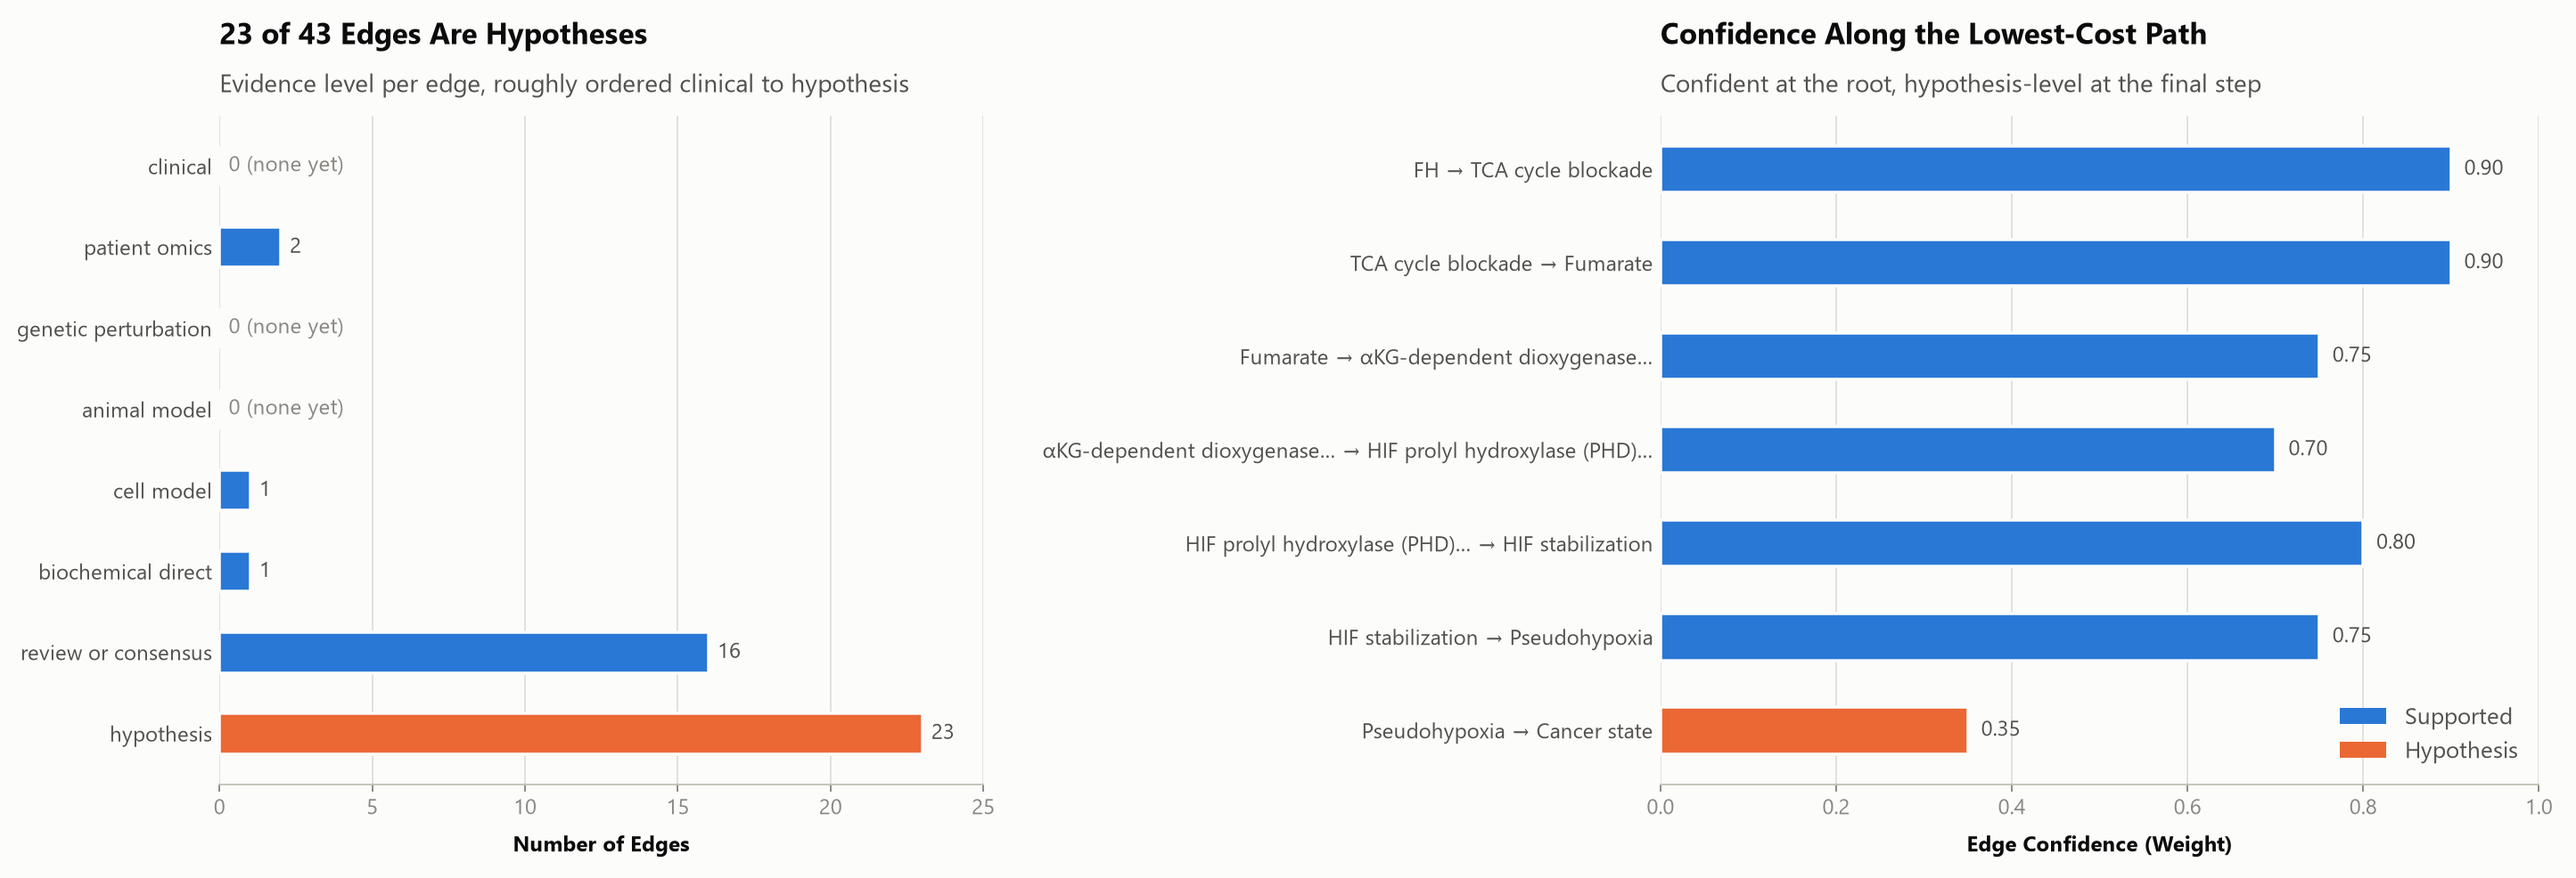
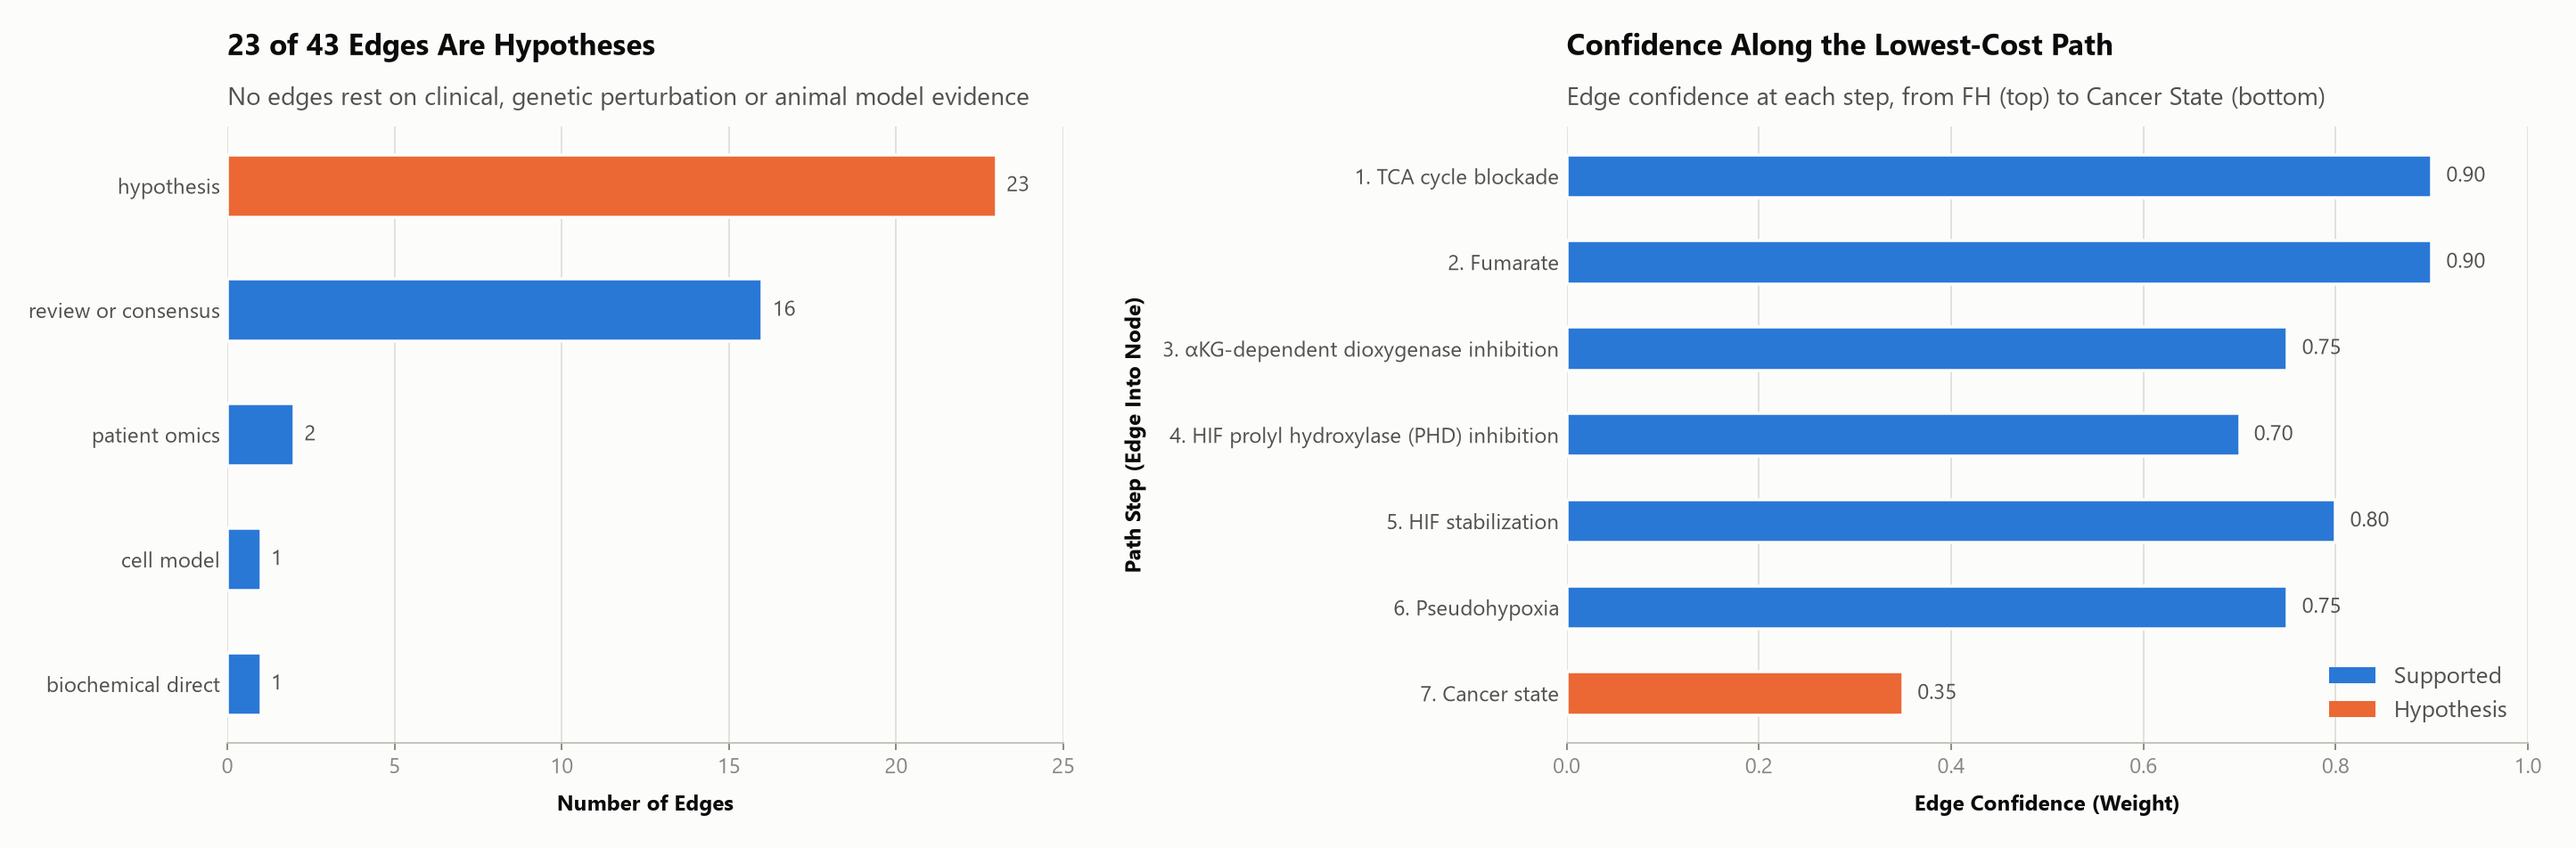
Simpler evidence audit, unique path labels, straight spine layout

diff --git a/src/fhrcc_mechanismkg/viz.py b/src/fhrcc_mechanismkg/viz.py
@@ -306,46 +306,51 @@ def draw_path_comparison(graph: Graph, paths: List[PathResult], out_path: str, s
     _save(fig, out_path)
 
 
+def _join_or(items: List[str]) -> str:
+    return items[0] if len(items) == 1 else ", ".join(items[:-1]) + " or " + items[-1]
+
+
 def draw_evidence_audit(graph: Graph, best: PathResult, out_path: str, source_name: str, target_name: str) -> None:
     plt = _mpl()
     from matplotlib.patches import Patch
 
-    fig, (a1, a2) = plt.subplots(1, 2, figsize = (17, 5.8), gridspec_kw = {"width_ratios": [1, 1.15]})
+    fig, (a1, a2) = plt.subplots(1, 2, figsize = (17, 5.6), gridspec_kw = {"width_ratios": [1, 1.15]})
 
+    # Left: evidence levels that are actually used, largest first; empty levels go in the subheader
     counts = evidence_counts(graph)
-    levels = EVIDENCE_ORDER[::-1]
-    ypos = list(range(len(levels)))
+    used = sorted(((l, c) for l, c in counts.items() if c), key = lambda t: (-t[1], EVIDENCE_ORDER.index(t[0])))
+    absent = [l.replace("_", " ") for l in EVIDENCE_ORDER if not counts[l]]
+    levels = [l for l, _ in used][::-1]  # barh draws bottom-up, so reverse to put the largest on top
     vals = [counts[l] for l in levels]
-    cols = [ORANGE if l == "hypothesis" else BLUE for l in levels]
-    a1.barh(ypos, vals, height = 0.5, color = cols, edgecolor = SURFACE, lw = 1.5)
+    ypos = list(range(len(levels)))
+    a1.barh(ypos, vals, height = 0.5, color = [ORANGE if l == "hypothesis" else BLUE for l in levels], edgecolor = SURFACE, lw = 1.5)
     for y, v in zip(ypos, vals):
-        a1.text(v + 0.3, y, str(v) if v else "0 (none yet)", va = "center", fontsize = LABEL_PT, color = INK2 if v else MUTED)
+        a1.text(v + 0.3, y, str(v), va = "center", fontsize = LABEL_PT, color = INK2)
     a1.set_yticks(ypos)
     a1.set_yticklabels([l.replace("_", " ") for l in levels])
     a1.set_xlim(0, 25)
     a1.set_xlabel("Number of Edges", labelpad = 8)
-    _panel_header(a1, f'{counts["hypothesis"]} of {len(graph.edges)} Edges Are Hypotheses', "Evidence level per edge, roughly ordered clinical to hypothesis")
+    sub = f"No edges rest on {_join_or(absent)} evidence" if absent else "Evidence level of every edge"
+    _panel_header(a1, f'{counts["hypothesis"]} of {len(graph.edges)} Edges Are Hypotheses', sub)
     _clean_axes(a1)
 
+    # Right: one bar per step along the path, first step at the top, labeled by the node it leads into
     steps = best.steps
     ypos2 = list(range(len(steps)))[::-1]
-    w = [s.edge.weight for s in steps]
-    cols2 = [ORANGE if is_hypothesis(s.edge) else BLUE for s in steps]
-    a2.barh(ypos2, w, height = 0.5, color = cols2, edgecolor = SURFACE, lw = 1.5)
+    a2.barh(ypos2, [s.edge.weight for s in steps], height = 0.5, color = [ORANGE if is_hypothesis(s.edge) else BLUE for s in steps], edgecolor = SURFACE, lw = 1.5)
     for y, s in zip(ypos2, steps):
         a2.text(s.edge.weight + 0.015, y, f"{s.edge.weight:.2f}", va = "center", fontsize = LABEL_PT, color = INK2)
-    lab = [f"{_short(graph, s.edge.subject, 30)} → {_short(graph, s.edge.object, 30)}" for s in steps]
     a2.set_yticks(ypos2)
-    a2.set_yticklabels(lab)
+    a2.set_yticklabels([f"{i}. {graph.nodes[s.edge.object].name}" for i, s in enumerate(steps, 1)])
     a2.set_xlim(0, 1.0)
     a2.set_xlabel("Edge Confidence (Weight)", labelpad = 8)
-    _panel_header(a2, "Confidence Along the Lowest-Cost Path", "Confident at the root, hypothesis-level at the final step")
+    a2.set_ylabel("Path Step (Edge Into Node)", labelpad = 8)
+    _panel_header(a2, "Confidence Along the Lowest-Cost Path", f"Edge confidence at each step, from {source_name} (top) to {target_name.title()} (bottom)")
     _clean_axes(a2)
     a2.legend(handles = [Patch(fc = BLUE, label = "Supported"), Patch(fc = ORANGE, label = "Hypothesis")], loc = "lower right", frameon = False, fontsize = LEGEND_PT, labelcolor = INK2)
 
-    fig.tight_layout(w_pad = 3)
+    fig.tight_layout(w_pad = 3, pad = 1.6)
     _save(fig, out_path)
-
 
 def _save(fig, out_path: str) -> None:
     p = Path(out_path)
@@ -354,6 +359,7 @@ def _save(fig, out_path: str) -> None:
     import matplotlib.pyplot as plt
 
     plt.close(fig)
+
 
 
 
